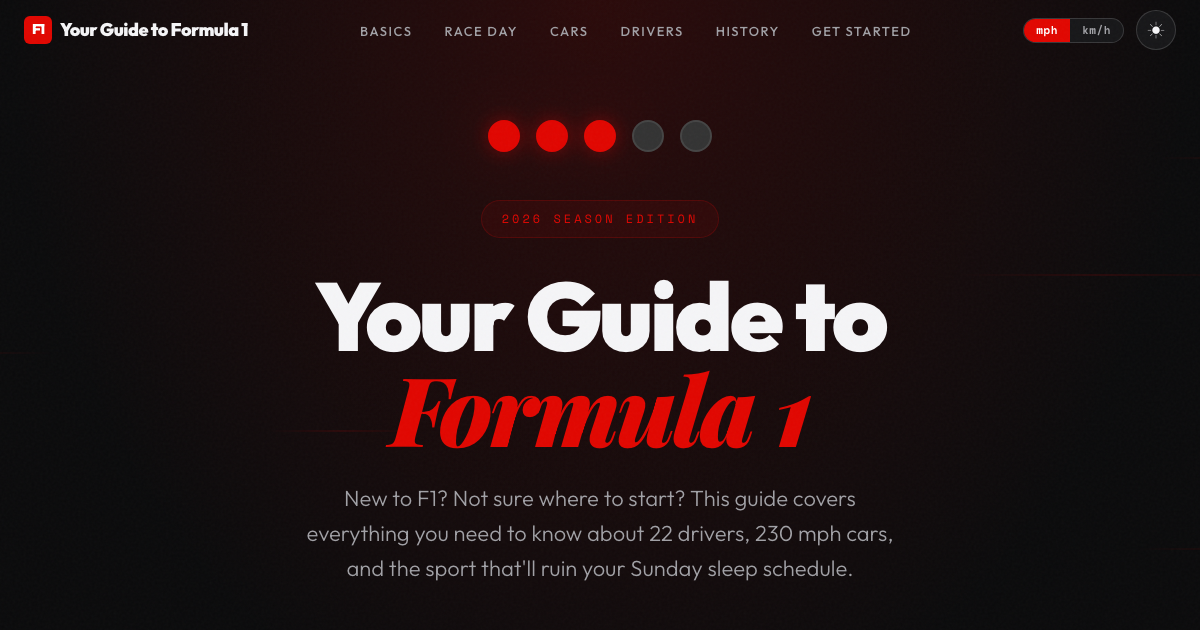
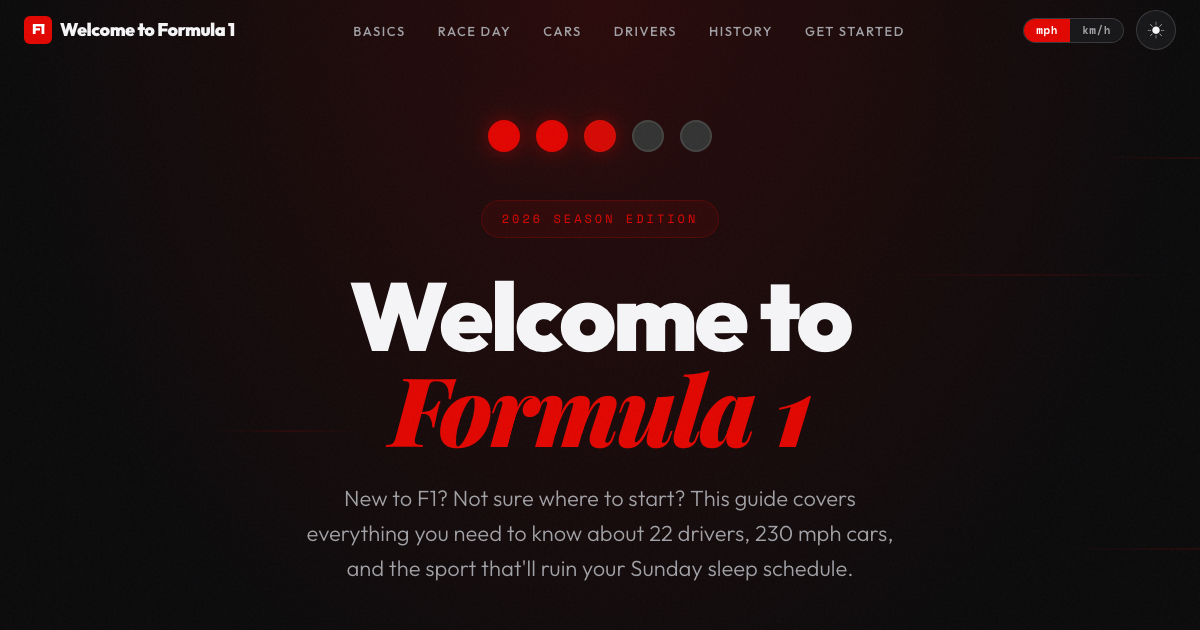
Rename site to Welcome to Formula 1

diff --git a/index.html b/index.html
@@ -3,14 +3,14 @@
 <head>
 <meta charset="UTF-8">
 <meta name="viewport" content="width=device-width, initial-scale=1.0">
-<title>Your Guide to Formula 1 — Everything You Need to Know</title>
+<title>Welcome to Formula 1 — Everything You Need to Know</title>
 <meta name="description" content="A beginner's guide to Formula 1. The cars, the drivers, the teams, the rules, and why millions of people wake up early on Sundays.">
-<meta property="og:title" content="Your Guide to Formula 1 — Everything You Need to Know">
+<meta property="og:title" content="Welcome to Formula 1 — Everything You Need to Know">
 <meta property="og:description" content="A beginner's guide to Formula 1. The cars, the drivers, the teams, the rules, and why millions of people wake up early on Sundays.">
 <meta property="og:image" content="https://f1-guide.pages.dev/og-image.png">
 <meta property="og:type" content="website">
 <meta name="twitter:card" content="summary_large_image">
-<meta name="twitter:title" content="Your Guide to Formula 1 — Everything You Need to Know">
+<meta name="twitter:title" content="Welcome to Formula 1 — Everything You Need to Know">
 <meta name="twitter:description" content="A beginner's guide to Formula 1. The cars, the drivers, the teams, the rules, and why millions of people wake up early on Sundays.">
 <meta name="twitter:image" content="https://f1-guide.pages.dev/og-image.png">
 <link rel="preconnect" href="https://fonts.googleapis.com">
@@ -1701,7 +1701,7 @@ h1, h2, h3, h4, h5, h6 { line-height: 1.15; font-weight: 700; }
   <div class="navbar__inner">
     <div class="navbar__logo">
       <span class="navbar__logo-mark">F1</span>
-      Your Guide to Formula 1
+      Welcome to Formula 1
     </div>
     <ul class="navbar__links">
       <li><a href="#basics">Basics</a></li>
@@ -1771,7 +1771,7 @@ h1, h2, h3, h4, h5, h6 { line-height: 1.15; font-weight: 700; }
   <div class="hero__badge reveal">2026 Season Edition</div>
 
   <h1 class="hero__title reveal reveal-delay-1">
-    Your Guide to<br><em>Formula 1</em>
+    Welcome to<br><em>Formula 1</em>
   </h1>
 
   <p class="hero__subtitle reveal reveal-delay-2">
@@ -3165,7 +3165,7 @@ function copyPageUrl() {
 
 function nativeShare() {
   navigator.share({
-    title: 'Your Guide to Formula 1',
+    title: 'Welcome to Formula 1',
     text: 'Everything you need to know about Formula 1 — the cars, the drivers, the drama.',
     url: window.location.href
   });
